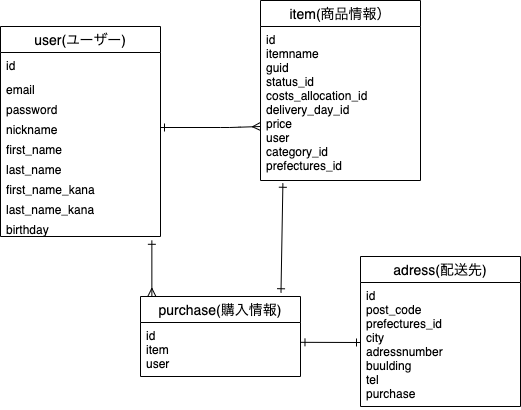
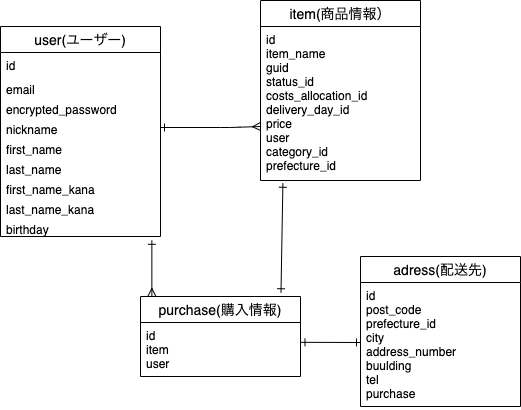
4回目の修正

diff --git a/README.md b/README.md
@@ -29,8 +29,7 @@ has_many :purchases
 | prefecture_id	     | integer    | null: false                    | 発送元地域 #ActiveHash
 
 ### Assosiation
-has_one_attached :image	## chatapp画像投稿機能を参照
-has_one	    :purchase
+has_one     :purchase
 belongs_to	:user
 
 
@@ -52,7 +51,7 @@ belongs_to :user
 | post_code      | string 	  | null: false	                   | 郵便番号
 | prefecture_id  | integer    | null: false                    | 都道府県 #Activehash
 | city	         | string	    | null: false	                   | 市区町村
-| addressnumber  | string	    | null: false	                   | 番地
+| address_number | string	    | null: false	                   | 番地
 | building	     | string	    |		                             | 建物(任意)
 | tel	           | string     | null: false	                   | 電話番号
 | purchase	     | references | null: false, foreign_key: true | 購入情報ID
